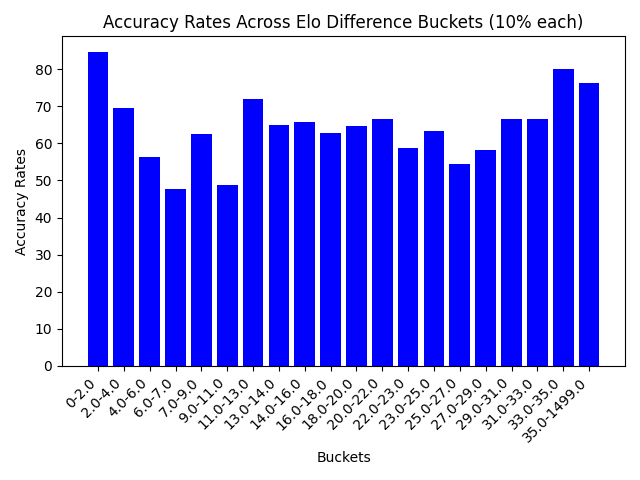
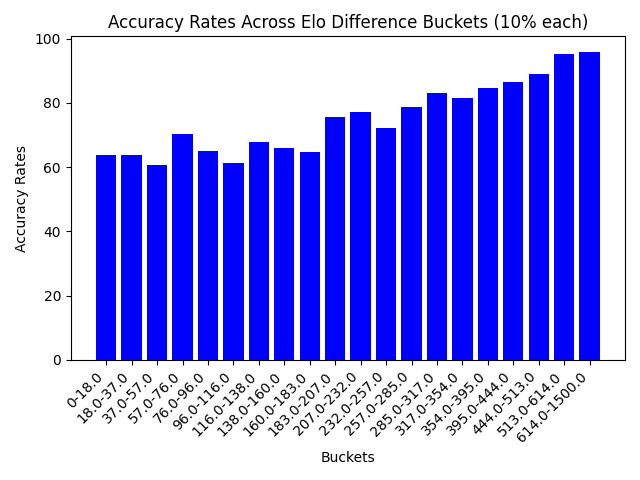
fixed bug

diff --git a/accuracy/src/accuracy/percentageEloBuckets.py b/accuracy/src/accuracy/percentageEloBuckets.py
@@ -14,18 +14,16 @@ with open("combined/processed/combinedF.csv", "r") as file:
             diff = abs(float(elo1) - float(elo2))
             eloDiffs.append(diff)
 
-            
-
 eloDiffs = sorted(eloDiffs)
 
 
 percentiles = [0]
 
 for i in range(1, 20):
-    index = int(i/200 *len(eloDiffs))
+    index = int(i/20 *len(eloDiffs))
     percentiles.append(eloDiffs[index])
 
-percentiles.append(eloDiffs[-1])
+percentiles.append(eloDiffs[-1] + 1)
 
 
 seasons = list(range(2007, 2024))
@@ -50,7 +48,7 @@ for i in range(0, len(percentiles)-1):
 plt.bar(binLabels, accuracies, color="blue")
 plt.xlabel('Buckets')
 plt.ylabel('Accuracy Rates')
-plt.title('Accuracy Rates Across Elo Difference Buckets (10% each)')
+plt.title('Accuracy Rates Across Elo Difference Buckets (5% each)')
 plt.xticks(rotation=45, ha='right')  
 plt.tight_layout() 
 

diff --git a/accuracy/src/accuracy/totalAccuracyAdjusted.py b/accuracy/src/accuracy/totalAccuracyAdjusted.py
@@ -26,7 +26,7 @@ colors = ['green', 'blue', "navy", 'steelblue', 'royalblue', 'skyblue', 'cornflo
 plt.bar(categories, values, color=colors)
 
 plt.ylabel('Total Accuracy Rate')
-plt.title('Elo, ML, Adjusted Elo, Adjusted ML, and Poll Total Accuracy Rates (2007 - 2024)')
+plt.title('Elo, ML, Adjusted Elo, and Poll Total Accuracy Rates (2007 - 2024)')
 
 plt.ylim(60, 80)
 
